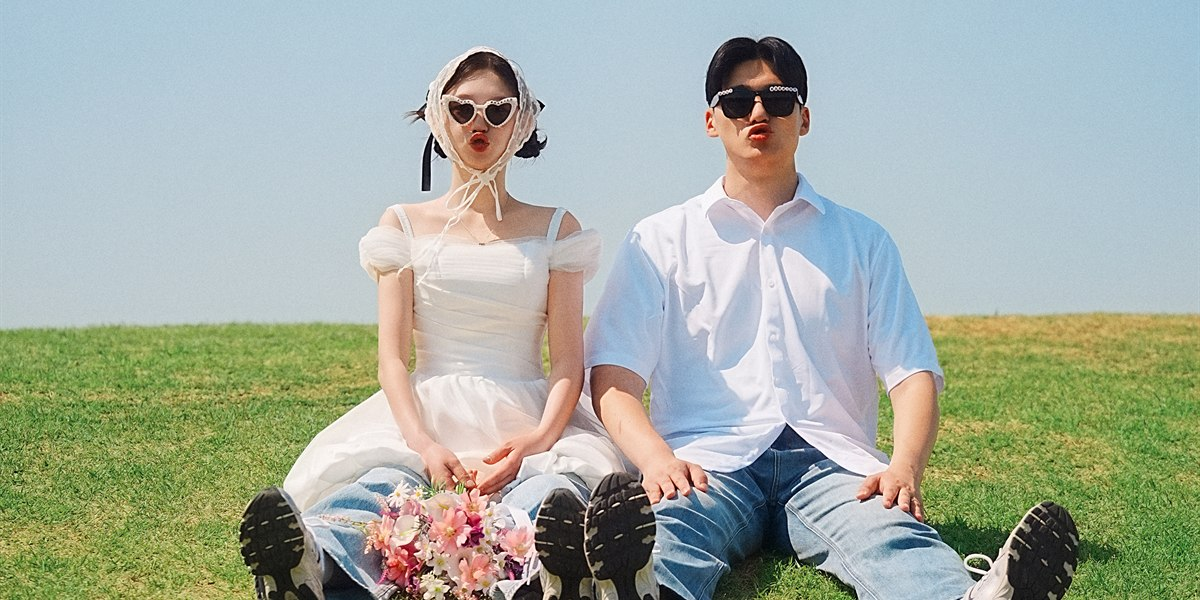
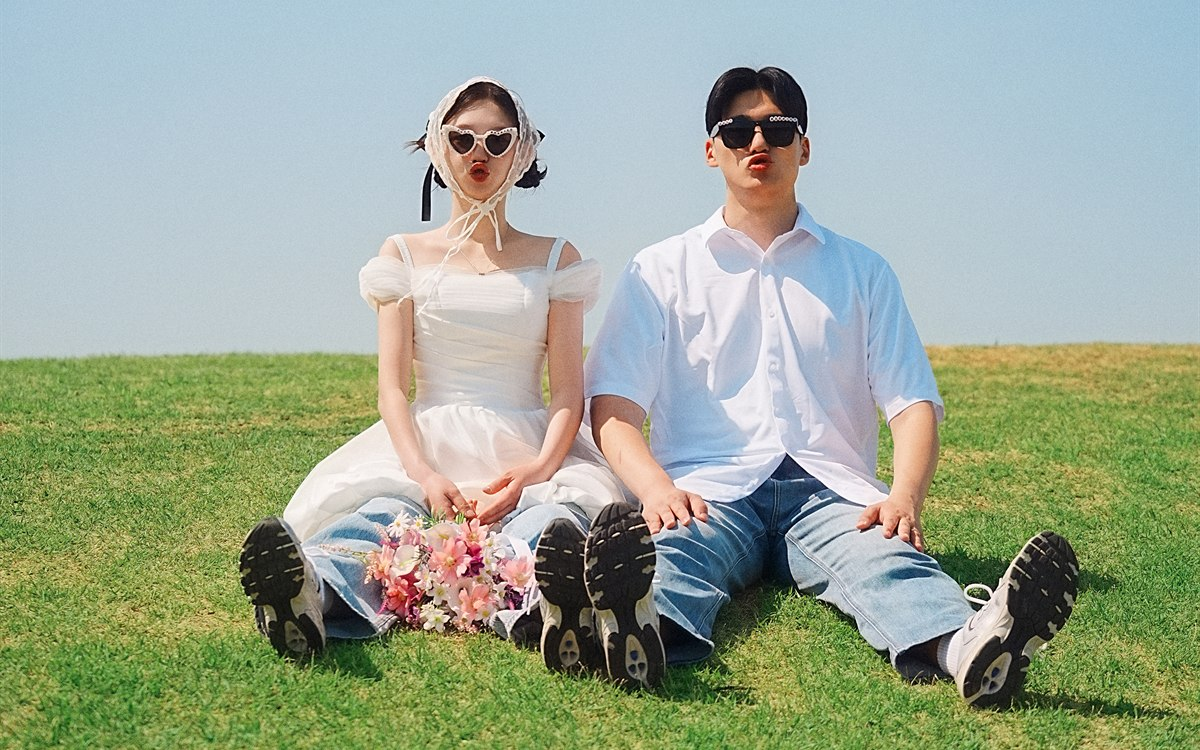
Widen the thumbnail to 1200x750 so the shoes fit
The couple is seated and, at full frame width, stands taller than a 2:1
window can hold, so the previous crop cut their shoes off at the bottom
edge. Nothing could be gained by moving the window: pushing it down far
enough to clear the soles started cutting into the tops of their heads.

Going to 1.6:1 makes the window tall enough for all of them, with sky
above and grass below. og:image:height follows to 750 so the declared
size still matches the file.

Surfaces that render link cards at a fixed wider ratio may still crop
this themselves, which is outside our control — but the shoes are in the
image now rather than cropped out before it is ever shared.

diff --git a/index.html b/index.html
@@ -8,7 +8,7 @@
 <meta property="og:description" content="2027년 1월 16일, 저희 두 사람 새로운 시작을 함께해주세요." />
 <meta property="og:image" content="https://bk-luv-eh.github.io/images/cover.jpg" />
 <meta property="og:image:width" content="1200" />
-<meta property="og:image:height" content="600" />
+<meta property="og:image:height" content="750" />
 <meta property="og:url" content="https://bk-luv-eh.github.io/" />
 <meta property="og:type" content="website" />
 <link rel="preload" as="image" href="images/main.jpg" />
